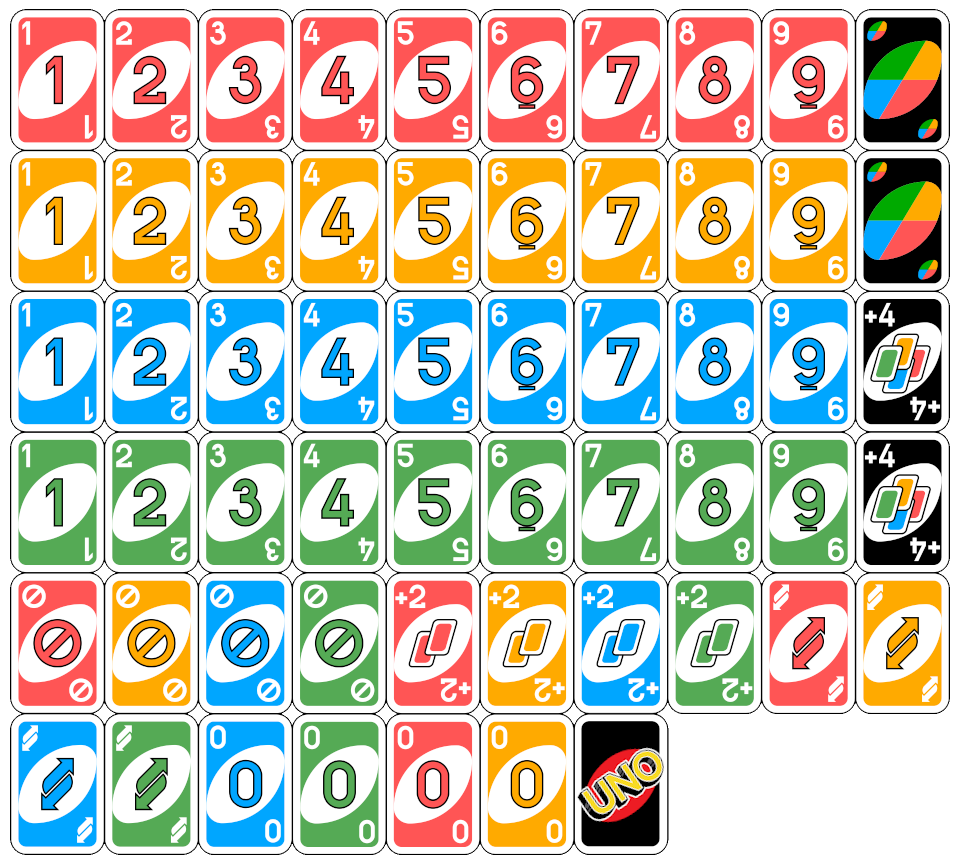
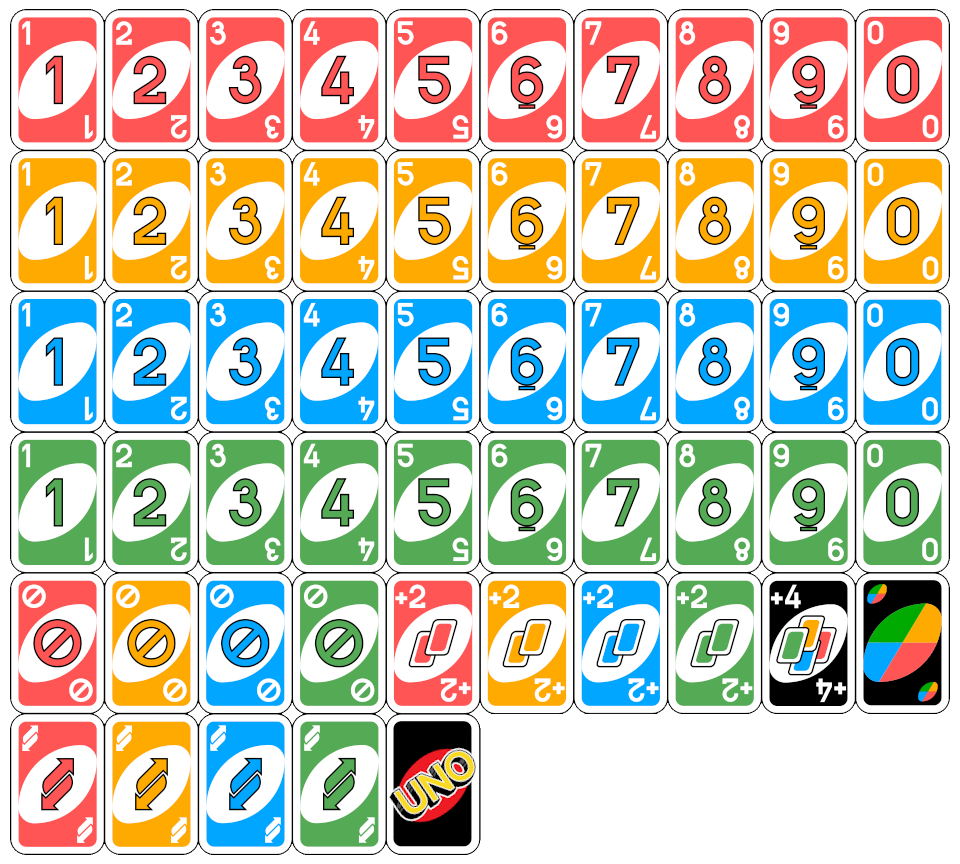
Reordered the deck image to simplify the card indexing method, and fixed some compiler warnings.

diff --git a/unoLib/src/Example.cpp b/unoLib/src/Example.cpp
@@ -20,19 +20,19 @@ bool Example::OnUserCreate()
 	fullDeck.Shuffle();
 	for (Card& card : fullDeck.m_vCards) {
 		card.m_Velocity = { (float)(500 + (rand() % 250)), (float)(250 + (rand() % 250)) };
-		card.m_AngularVelocity = 8 + 6 / (1 + (rand() % 15));
+		card.m_AngularVelocity = 8.0f + 6.0f / (1.0f + (rand() % 15));
 	}
 
 	// Set box bounds.
-	float TotalWidth = ScreenWidth();
-	float TotalHeight = ScreenHeight();
-	float midX = TotalWidth / 2.0;
-	float midY = TotalHeight / 2.0;
-	float boxLen = 3.0 * std::min(midX, midY) / 2.0;
+	float TotalWidth = (float)ScreenWidth();
+	float TotalHeight = (float)ScreenHeight();
+	float midX = TotalWidth / 2.0f;
+	float midY = TotalHeight / 2.0f;
+	float boxLen = 3.0f * std::min(midX, midY) / 2.0f;
 	float boxHeight = dimCard.y;
 	// return if bad dimensions
-	float xStart = midX - boxLen / 2.0;
-	float yStart = midY - boxLen / 2.0;
+	float xStart = midX - boxLen / 2.0f;
+	float yStart = midY - boxLen / 2.0f;
 	if ((boxHeight > xStart) || (boxHeight > midY))
 		return false;
 
@@ -92,85 +92,47 @@ bool Example::OnUserUpdate(float fElapsedTime)
 std::pair<int, int>  Example::GetCardImageIndices(bool bBack, const Card& card)
 {
 	// Returns a pair of indices as { Row, Col } for the given card.
-	// This code is ugly, but it will be fixed after rearranging the card image file.
+	int nCol = 5;
+	int nRow = 4;
 	if (bBack)
-		return { 5, 6 };
+		return { nCol, nRow };
 
+	switch (card.m_eValue) {
+	case Card::Value::Zero: nCol = 9; break;
+	case Card::Value::One: nCol = 0; break;
+	case Card::Value::Two: nCol = 1; break;
+	case Card::Value::Three: nCol = 2; break;
+	case Card::Value::Four: nCol = 3; break;
+	case Card::Value::Five: nCol = 4; break;
+	case Card::Value::Six: nCol = 5; break;
+	case Card::Value::Seven: nCol = 6; break;
+	case Card::Value::Eight: nCol = 7; break;
+	case Card::Value::Nine: nCol = 8; break;
+	case Card::Value::Reverse: nRow = 5; break;
+	case Card::Value::Skip: nRow = 4; break;
+	case Card::Value::Draw: nRow = 4; break;
+	}
+
+	bool bAction = card.IsActionCard();
+	bool bDraw = card.m_eValue == Card::Value::Draw;
 
 	switch (card.m_eColor) {
-	case Card::Color::Red:
-		switch (card.m_eValue) {
-		case Card::Value::Zero: return { 5, 4 };
-		case Card::Value::One: return { 0, 0 };
-		case Card::Value::Two: return { 0, 1 };
-		case Card::Value::Three: return { 0, 2 };
-		case Card::Value::Four: return { 0, 3 };
-		case Card::Value::Five: return { 0, 4 };
-		case Card::Value::Six: return { 0, 5 };
-		case Card::Value::Seven: return { 0, 6 };
-		case Card::Value::Eight: return { 0, 7 };
-		case Card::Value::Nine: return { 0, 8 };
-		case Card::Value::Reverse: return { 4, 8 };
-		case Card::Value::Skip: return { 4, 0 };
-		case Card::Value::Draw: return { 4, 4 };
-		}
-	case Card::Color::Yellow:
-		switch (card.m_eValue) {
-		case Card::Value::Zero: return { 5, 5 };
-		case Card::Value::One: return { 1, 0 };
-		case Card::Value::Two: return { 1, 1 };
-		case Card::Value::Three: return { 1, 2 };
-		case Card::Value::Four: return { 1, 3 };
-		case Card::Value::Five: return { 1, 4 };
-		case Card::Value::Six: return { 1, 5 };
-		case Card::Value::Seven: return { 1, 6 };
-		case Card::Value::Eight: return { 1, 7 };
-		case Card::Value::Nine: return { 1, 8 };
-		case Card::Value::Reverse: return { 4, 9 };
-		case Card::Value::Skip: return { 4, 1 };
-		case Card::Value::Draw: return { 4, 5 };
-		}
-	case Card::Color::Green:
-		switch (card.m_eValue) {
-		case Card::Value::Zero: return { 5, 3 };
-		case Card::Value::One: return { 3, 0 };
-		case Card::Value::Two: return { 3, 1 };
-		case Card::Value::Three: return { 3, 2 };
-		case Card::Value::Four: return { 3, 3 };
-		case Card::Value::Five: return { 3, 4 };
-		case Card::Value::Six: return { 3, 5 };
-		case Card::Value::Seven: return { 3, 6 };
-		case Card::Value::Eight: return { 3, 7 };
-		case Card::Value::Nine: return { 3, 8 };
-		case Card::Value::Reverse: return { 5, 1 };
-		case Card::Value::Skip: return { 4, 3 };
-		case Card::Value::Draw: return { 4, 7 };
-		}
-	case Card::Color::Blue:
-		switch (card.m_eValue) {
-		case Card::Value::Zero: return { 5, 2 };
-		case Card::Value::One: return { 2, 0 };
-		case Card::Value::Two: return { 2, 1 };
-		case Card::Value::Three: return { 2, 2 };
-		case Card::Value::Four: return { 2, 3 };
-		case Card::Value::Five: return { 2, 4 };
-		case Card::Value::Six: return { 2, 5 };
-		case Card::Value::Seven: return { 2, 6 };
-		case Card::Value::Eight: return { 2, 7 };
-		case Card::Value::Nine: return { 2, 8 };
-		case Card::Value::Reverse: return { 5, 0 };
-		case Card::Value::Skip: return { 4, 2 };
-		case Card::Value::Draw: return { 4, 6 };
-		}
+	case Card::Color::Red: bAction ? nCol = 0 : nRow = 0; break;
+	case Card::Color::Yellow: bAction ? nCol = 1 : nRow = 1; break;
+	case Card::Color::Green: bAction ? nCol = 2 : nRow = 2; break;
+	case Card::Color::Blue: bAction ? nCol = 3 : nRow = 3; break;
 	case Card::Color::Wild:
-		switch (card.m_eValue) {
-		case Card::Value::Zero: return { 0, 9 };
-		case Card::Value::Draw: return { 3, 9 };
-		}
+		if (bDraw)
+			return { 4, 8 };
+		if (card.m_eValue == Card::Value::Zero)
+			return { 4, 9 };
+		[[fallthrough]];
+	default: return { 5, 4 };
 	}
-	// By default return the back side.
-	return { 5, 6 };
 
+	if (bDraw)
+		nCol += 4;
+	return { nRow, nCol };
 }
 
 olc::vf2d Example::GetCardOffset(bool bBack, const Card& card)
@@ -223,7 +185,7 @@ void Example::PlaceHand(size_t nHand)
 	
 	float boxLen = m_vRect[0].second.x;
 	float boxHeight = m_vRect[0].second.y;
-	float yPos = m_vRect[0].first.y + boxHeight / 2.0;
+	float yPos = m_vRect[0].first.y + boxHeight / 2.0f;
 	float xStart = m_vRect[0].first.x;
 	float xIncrement = boxLen / (m_vHands[nHand].GetSize() + 1);
 	

diff --git a/unoLib/src/Card.cpp b/unoLib/src/Card.cpp
@@ -40,6 +40,12 @@ Card::IsPlayable(const Card& TargetCard)
     return false;
 }
 
+bool
+Card::IsActionCard() const
+{
+    return m_eValue == Value::Reverse || m_eValue == Value::Skip || m_eValue == Value::Draw;
+}
+
 std::string
 Card::GetCardString(bool bSelected)
 {

diff --git a/unoLib/include/uno/Card.h b/unoLib/include/uno/Card.h
@@ -15,6 +15,7 @@ public:
 	Card(Color eColor, Value eValue);
 	~Card();
 	bool IsPlayable(const Card& TargetCard);
+	bool IsActionCard() const;
 	std::string GetCardString(bool bSelected = false);
 	void StopMovement();
 
